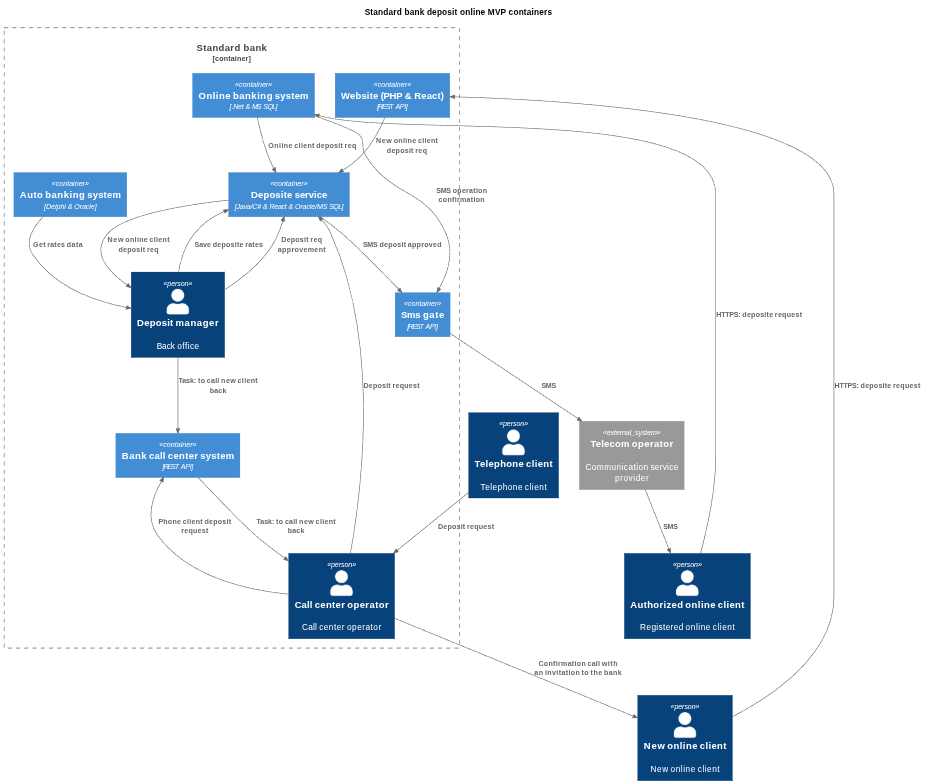
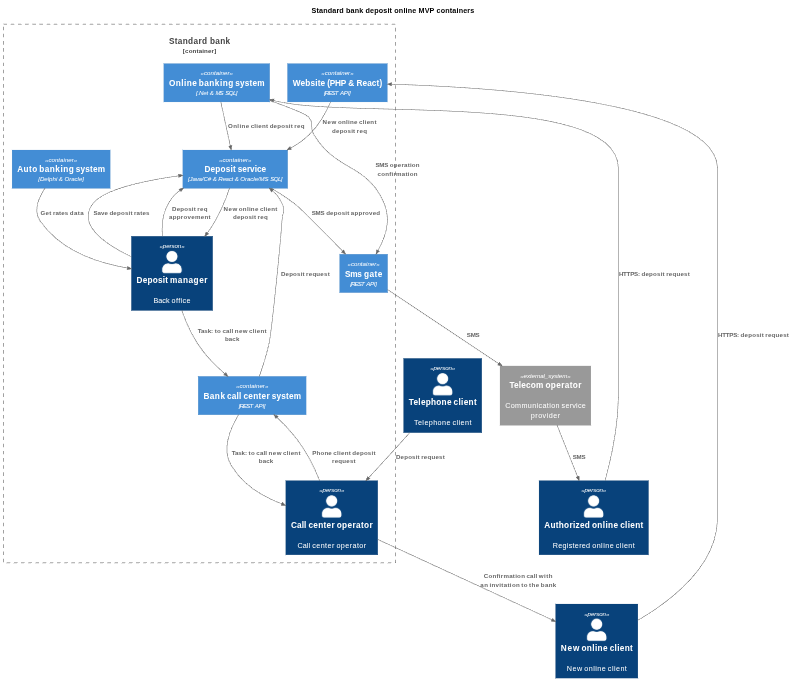
task4: deposit rates to call centers

diff --git a/task4_additional_requirements/deposit_rates_to_call_centers_adr.md b/task4_additional_requirements/deposit_rates_to_call_centers_adr.md
@@ -1,0 +1,50 @@
+### <a name="_b7urdng99y53"></a>**Название задачи: Передача ставок по депозитам в банковский и партнёрский кол-центры.**
+### <a name="_hjk0fkfyohdk"></a>**Автор: Михейчев И.С.**
+### <a name="_uanumrh8zrui"></a>**Дата: 19.01.2026**
+### <a name="_3bfxc9a45514"></a>**Функциональные требования**
+
+|**№**|**Действующие лица или системы**|**Use Case**|**Описание**|
+|---|---|---|---|
+| F5.1 | Оператор банковского кол-центра | Предоставление ставок по депозитам кол-центром банка. | При звонке клиента, оператор банковского кол-центра может предоставить информацию по ставкам депозитов |
+| F5.2 | Оператор партнёрского кол-центра | Предоставление ставок по депозитам партнёрским кол-центром. | При звонке клиента, оператор партнёрского кол-центра может предоставить информацию по ставкам депозитов |
+### <a name="_u8xz25hbrgql"></a>**Нефункциональные требования**
+
+|**№**|**Требование**|
+|---|---|
+|       | **Надёжность (Reliability)** |
+| R1.1  | Все сервисы должны работать 24/7 и быть доступны в 99,9% случаев |
+| R4.1  | Системы банка должны быть готова к недоступности внешних сервисов |
+| R5.1  | Для сложных операция должна быть обеспечена транзакционность |
+| R6.1  | Система должна обеспечивать логирование для анализа инцидентов и мониторинга текущего состояния |
+|       | **Производительность (Performance)**   |
+| P1.1  | Отклик по всем операциям должен быть максимально быстрым и занимать миллисекунды |
+| P3.1  | Передача файлов с информацией о депозитах в партнёрский кол-центр должна производиться не медленнее чем за 2 секунды. |
+|       | **Ограничения (Restrictions)**         |
+| R10.1 | Передача информации, в партнёрский кол-центр должна быть реализована через передачу файлов |
+| R10.2 | Информация, передаваемая в партнёрский кол-центра должна быть защищена механизмом шифрования |
+
+
+### <a name="_qmphm5d6rvi3"></a>**Решение**
+Диаграмма контекста: [puml](deposit_rates_to_call_centers_c4_context.puml) | [png](deposit_rates_to_call_centers_c4_context.png)
+
+Диаграмма контейнеров: [puml](deposit_rates_to_call_centers_c4_containers.puml) | [png](deposit_rates_to_call_centers_c4_containers.png)
+
+Логика принятия решений:
+- Ставки по депозитам для новых клиентов могут быть получены оператором любого кол-центра через сайт. Решение тривиальное, на схеме не отображено для читаемости.
+- Ставки по депозитам для существующих клиентов могут быть получены сотрудником кол-центра банка через систему кол-центра. Данный функционал должен быть реализован в системе кол-центра (согласно условию для этого есть возможность) при помощи прямого API-вызова нового сервиса депозитов. Данное решение является продолжением идеи о том, что в MVP онлайн депозитов планируется синхронное общение между сервисами.
+- Ставки по депозитам для существующих клиентов могут быть получены сотрудником партнёрского кол-центра на SFTP-сервере. Скорее всего это будет внешний сервер так как своего у банка сейчас нет, а его развертывание несет риски срыва сроков MVP в случае задержек. Файлы со ставками будут выгружаться на сервер сервисом депозитов при любом изменении. Чтобы этот процесс не стал блокером для обработки запросов на изменение депозитов, планируется использовать асинхронную очередь задач (Spring Batch или Hangfire в зависимости от языка реализации сервиса).
+
+### <a name="_bjrr7veeh80c"></a>**Альтернативы**
+- Ставки по депозитам для существующих клиентов могут быть получены сотрудником кол-центра банка не через систему кол-центра, а через интерфейс сервиса депозитов. Это вариант на случай, если окажется, что доработать систему кол-центра не получится.
+- SFTP-сервер может быть внутренним, если для этого будут возможности, либо партнёрским, если таковой имеется.
+
+### <a name="_bqtru6e2h5dx"></a>**Недостатки, ограничения, риски**
+Недостатки:
+- Синхронное общение между сервисами увеличивает связность сервисов.
+
+Ограничения:
+- Использование SFTP-сервера ограничивает оперативность доставки свежих изменений в партнёрскую систему.
+
+Риски:
+- Использование асинхронной очереди задач повышает риски неконсистентности данных между системами в случае ошибок.
+- В случае отказа SFTP-сервера партнёрский сервис не сможет эффективно принимать на себя операционную нагрузку.

diff --git a/task3_mvp_adrs/deposit_online_mvp_adr.md b/task3_mvp_adrs/deposit_online_mvp_adr.md
@@ -67,13 +67,16 @@
 </br>
 
 Логика принятия решений:
+- Функционал работы с депозитами планируется добавить и перенести в новый сервис, включая миграцию имеющихся данных.
+- Информацию о ставках планируется хранить в БД нового сервиса.
+- Вспомогательная информация для расчета ставок по-прежнему может быть получена депозитным менеджером.
 - Данное решение подразумевает высокую нагрузку на команды разработки оправданную не только текущими (MVP), но и годовыми целями.
 - Есть проблемы с АБС:
     - она сосредоточила в себе много функций, при этом уже есть сложности с производительностью;
     - технологии при помощи которых реализована АБС создают риск потери поддержки;
-- Функционала работы с депозитами планируется добавить и перенести в новый сервис, включая миграцию имеющихся данных.
-- Новый сервис планируется реализовать с использованием знакомых командам технологий: Java/С#, React, MS SQL/Oracle.
+- Новый сервис планируется реализовать с использованием знакомых командам технологий: Java/С#, React, MS SQL/Oracle. Вариативность обусловлена неочевидностью исполнителей, которые будут определены в зависимости от уровня нагрузки.
 - Предложенный вариант реализации создает хороший задел для достижения годовых планов.
+- Альтернативные варианты предусматривают управление нагрузкой на разработку и управление рисками.
 
 ### <a name="_bjrr7veeh80c"></a>**Альтернативы**
 - <i>Консервативное решение</i>: реализовать все операции с депозитами в АБС. Оно позволяет снизить сложность разработки MVP, однако несет в себе риски перегрузки систем и сложности реализации годового плана.
@@ -86,7 +89,7 @@
 
 ### <a name="_bqtru6e2h5dx"></a>**Недостатки, ограничения, риски**
 Недостатки:
-- Менеджерам кол-центра и депозитного отдела бэк-офиса придется научиться работать в новом интерфейсе сервиса депозитов.
+- Менеджерам депозитного отдела бэк-офиса придется научиться работать в новом интерфейсе сервиса депозитов.
 - Высокая сложность разработки из-за старта нового сервиса депозитов и переноса в него соответствующего функционала из АБС (включая миграцию данных).
 
 Ограничения:

diff --git a/task4_additional_requirements/tasks_list.md b/task4_additional_requirements/tasks_list.md
@@ -1,0 +1,13 @@
+# Задачи
+1. Получение ставок в системе банковского кол-центра из сервиса депозитов:
+    1.1 ручка доступа к ставкам из БД в сервисе депозитов
+    1.2 ручка запроса ставок клиента в системе кол-центра
+    1.3 интеграция сервиса депозитов и системы кол-центра банка
+2. Получение ставок в системе партнёрского кол-центра из банковского сервиса депозитов:
+    2.1 организация доступа к sftp-сервису
+    2.2 ручка получения ставок от sftp-сервера в системе партнёрского кол-центра
+    2.3 интеграция партнёрского кол-центра и sftp-сервера
+    2.3 добавление асинхронной очереди задач в сервис депозитов
+    2.4 создание асинхронной задачи при обновлении ставок в сервисе депозитов
+    2.5 интеграция сервиса депозитов и sftp-сервиса
+    2.6 интеграция сервиса депозитов с системой партнёрского кол-центра через sftp-сервис

diff --git a/task4_additional_requirements/README.md b/task4_additional_requirements/README.md
@@ -1,0 +1,7 @@
+# Задание 4. Передача ставок в кол-центр
+
+Предлагаемое решение передачи информации о ставках депозитов в формате [ADR](deposit_rates_to_call_centers_adr.md).
+
+[Список](tasks_list.md) крупных задач и road map ([drawio](road_map.drawio) | [png](road_map.png)) для реализации передачи информации о ставка депозитов в банковскую и партнерскую системы кол-центра. 
+
+Задание было выполнено исходя из предположения о том, что был реализован основной вариант из ADR для MVP онлайн депозитов, подразумевающий наличие отдельного сервиса депозитов. Все текущие документы являются дополнительными к тем, которые были созданы в задаче 3 (MVP онлайн депозитов).
